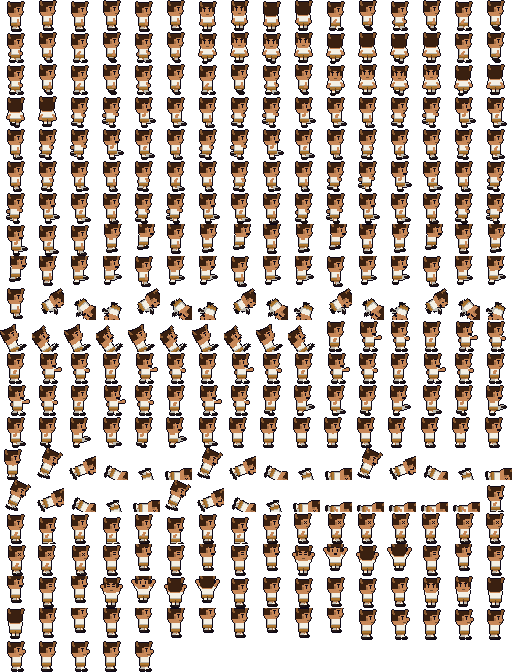
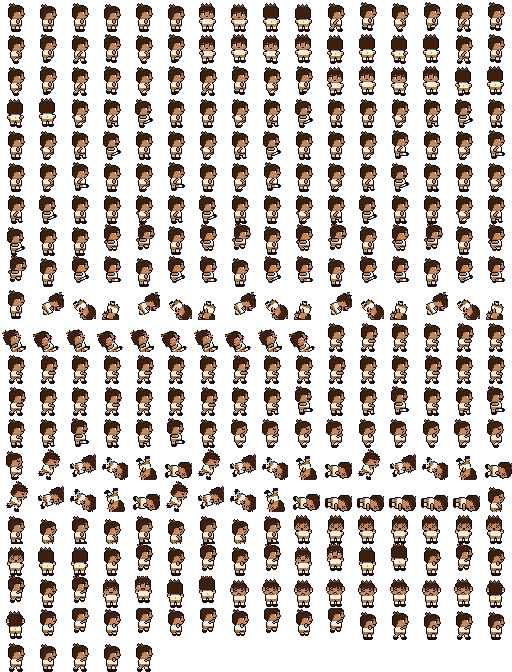
Jugadores chibi Nekketsu pixel por pixel para los 30 y banderines en las esquinas de la cancha
Claude-Session: https://claude.ai/code/session_01VZnykmFcmzswXmttVAAKYW

Changed region(s): [[0.0, 0.0, 1.0, 1.0]]

diff --git a/src/view/NesPlayer.ts b/src/view/NesPlayer.ts
@@ -87,12 +87,15 @@ export class NesPlayer {
   private dir = 0;
   private lastFrame = -1;
   private isThor: boolean;
+  /** How tall the drawing is over the feet: 30 px in the sheets drawn in code, about 42 in the ones from pixel art. */
+  private tall: number;
   gold = false; private goldT = 0; private flashT = 0;
   /** A direction the scene imposes (the penalty shootout: the shooter from behind, the keeper facing us). */
   forceDir: number | null = null;
 
   constructor(private scene: Phaser.Scene, public p: Player, private key: string, private meta: NesMeta, private fx?: Fx) {
     this.isThor = p.art === 'thor';
+    this.tall = meta.cell[1] >= 48 ? 42 : 30;
     this.shadow = scene.add.image(0, 0, 'shadow').setOrigin(0.5, 0.5);
     this.sprite = scene.add.sprite(0, 0, key, 0).setOrigin(meta.pivot[0] / meta.cell[0], meta.pivot[1] / meta.cell[1]);
     this.mark = scene.add.image(0, 0, 'mark_1').setOrigin(0.5, 1).setVisible(false);
@@ -147,12 +150,12 @@ export class NesPlayer {
     this.shadow.setPosition(x, gy).setScale(k * 1.15, 1).setDepth(depthAt(p.y) - 0.5);
     const mine = humanSlot !== null;
     this.mark.setVisible(mine);
-    if (mine) this.mark.setTexture(`mark_${humanSlot + 1}`).setPosition(x, y - 33).setTint(jColor).setDepth(1000 + p.y);
+    if (mine) this.mark.setTexture(`mark_${humanSlot + 1}`).setPosition(x, y - this.tall - 3).setTint(jColor).setDepth(1000 + p.y);
     this.bar.clear();
     // the cartoon stars of Nekketsu over the head of a player who is out cold (K.O.) or dizzy after a slide
     const ko = p.state === 'tumble' && (p.act?.dur ?? 0) >= T.hit.ko * 0.9 && (p.act?.t ?? 0) > TUMBLE_T;
     if (ko || p.state === 'dizzy') {
-      const hx = ko ? x + (mirrored ? -9 : 9) : x, hy = ko ? y - 12 : y - 32, a0 = (m?.t ?? 0) * 6;
+      const hx = ko ? x + (mirrored ? -9 : 9) : x, hy = ko ? y - Math.round(this.tall * 0.4) : y - this.tall - 2, a0 = (m?.t ?? 0) * 6;
       for (let i = 0; i < 3; i++) {
         const a = a0 + (i * Math.PI * 2) / 3, sx = Math.round(hx + Math.cos(a) * 7), sy2 = Math.round(hy + Math.sin(a) * 2.5);
         this.bar.fillStyle(i === 1 ? 0xffffff : 0xffe45c).fillRect(sx - 1, sy2, 3, 1).fillRect(sx, sy2 - 1, 1, 3);

diff --git a/src/view/TopPitch.ts b/src/view/TopPitch.ts
@@ -163,6 +163,16 @@ export class TopPitch {
       if (d === 1) arc(spot, MIDY, 48, -a, a, 16); else arc(spot, MIDY, 48, Math.PI - a, Math.PI + a, 16);
     }
     for (const [x, y, a0] of [[0, 0, 0], [PITCH.w, 0, Math.PI / 2], [PITCH.w, PITCH.d, Math.PI], [0, PITCH.d, -Math.PI / 2]] as const) arc(x, y, 8, a0, a0 + Math.PI / 2, 6);
+    // the corner flags of Nintendo World Cup: a white pole and a red and yellow flag that flutters
+    const flap = Math.floor(this.clock * 4) % 2;
+    for (const [x, y] of [[0, 0], [PITCH.w, 0], [PITCH.w, PITCH.d], [0, PITCH.d]] as const) {
+      const [fx, fy] = P(x, y), X = Math.round(fx), Y = Math.round(fy);
+      g.fillStyle(0x1a1020, 1).fillRect(X - 1, Y - 15, 3, 16);
+      g.fillStyle(0xffffff, 1).fillRect(X, Y - 14, 1, 14);
+      g.fillStyle(0x1a1020, 1).fillRect(X + 1, Y - 15, 7, 6 + flap);
+      g.fillStyle(0xe8423a, 1).fillRect(X + 1, Y - 14, 5, 2 + flap);
+      g.fillStyle(0xffd447, 1).fillRect(X + 1, Y - 12 + flap, 5, 2);
+    }
     // the goals: the net box behind the line (under the players) and the white frame, both with the same lean
     const n = this.netG.clear(), f = this.frameG.clear(), H = GOAL.bar * PZ;
     for (const [gx, d] of [[0, -1], [PITCH.w, 1]] as const) {

diff --git a/src/view/scenes/Boot.ts b/src/view/scenes/Boot.ts
@@ -30,8 +30,12 @@ export class BootScene extends Phaser.Scene {
     for (const k of FX) this.load.image(`cine_fx_${k}`, `assets/cine/fx_${k}.png`);
     for (const c of OUTFIT_CHARS) for (const o of ['arcoiris', 'estrellas']) this.load.spritesheet(`${c}_${o}`, `assets/sprites/${c}_${o}.png`, { frameWidth: 48, frameHeight: 48 });
     // the footballers in the Nekketsu style of PixelForja (tools/nes): 32 x 32 cells, five directions drawn and three by mirror
+    // the size of the cell is in each JSON (32 for the sheets drawn in code, 56 for the ones made from Higgsfield pixel art): the
+    // picture is queued once its JSON is in
     for (const k of NES) {
-      this.load.spritesheet(`nes_${k}`, `assets/nes/${k}.png`, { frameWidth: 32, frameHeight: 32 });
+      this.load.once(`filecomplete-json-nes_${k}_meta`, (_key: string, _type: string, meta: { cell: [number, number] }) => {
+        this.load.spritesheet(`nes_${k}`, `assets/nes/${k}.png`, { frameWidth: meta.cell[0], frameHeight: meta.cell[1] });
+      });
       this.load.json(`nes_${k}_meta`, `assets/nes/${k}.json`);
     }
     for (const k of SHEETS) {

diff --git a/src/ui/screens.ts b/src/ui/screens.ts
@@ -72,7 +72,7 @@ export class Screens {
     const nid = /^riv_[a-z]+$/.test(id) ? `${id}_1` : id;
     const nm = this.d.game.cache.json.get(`nes_${nid}_meta`) as { cols: number; cell: [number, number]; anims: Record<string, { start: number }> } | undefined;
     if (nm) {
-      const c = nm.cell[0], k = scale <= 1 ? 1 : 3, st = nm.anims.idle_down?.start ?? 0, col = st % nm.cols, row = Math.floor(st / nm.cols), s = c * k;
+      const c = nm.cell[0], k = scale <= 1 ? 1 : c >= 48 ? 2 : 3, st = nm.anims.idle_down?.start ?? 0, col = st % nm.cols, row = Math.floor(st / nm.cols), s = c * k;
       return `<i class="av ${extra}" style="width:${s}px;height:${s}px;background-image:url(assets/nes/${nid}.png);background-size:${nm.cols * s}px auto;background-position:-${col * s}px -${row * s}px"></i>`;
     }
     const meta = this.d.game.cache.json.get(`${id}_meta`) as { anims: Record<string, { start: number }> } | undefined;
